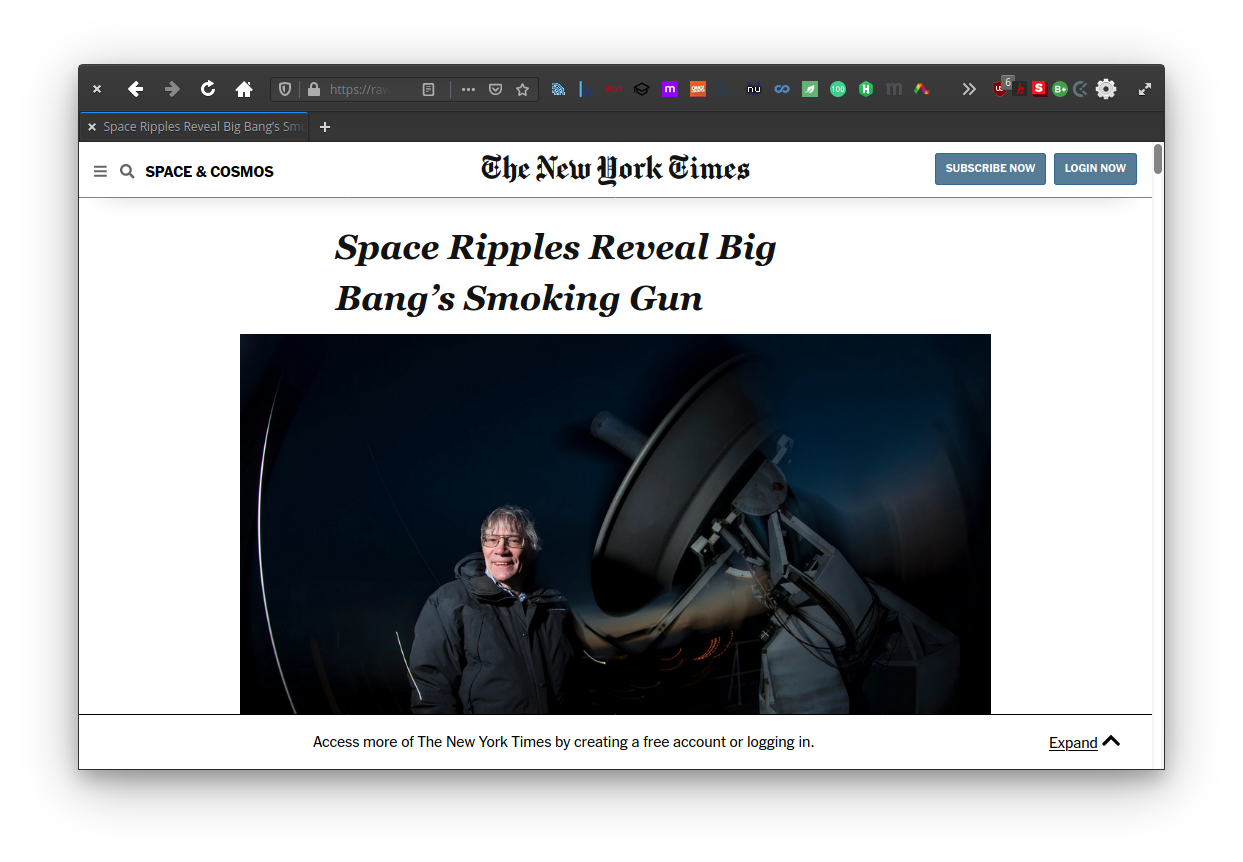
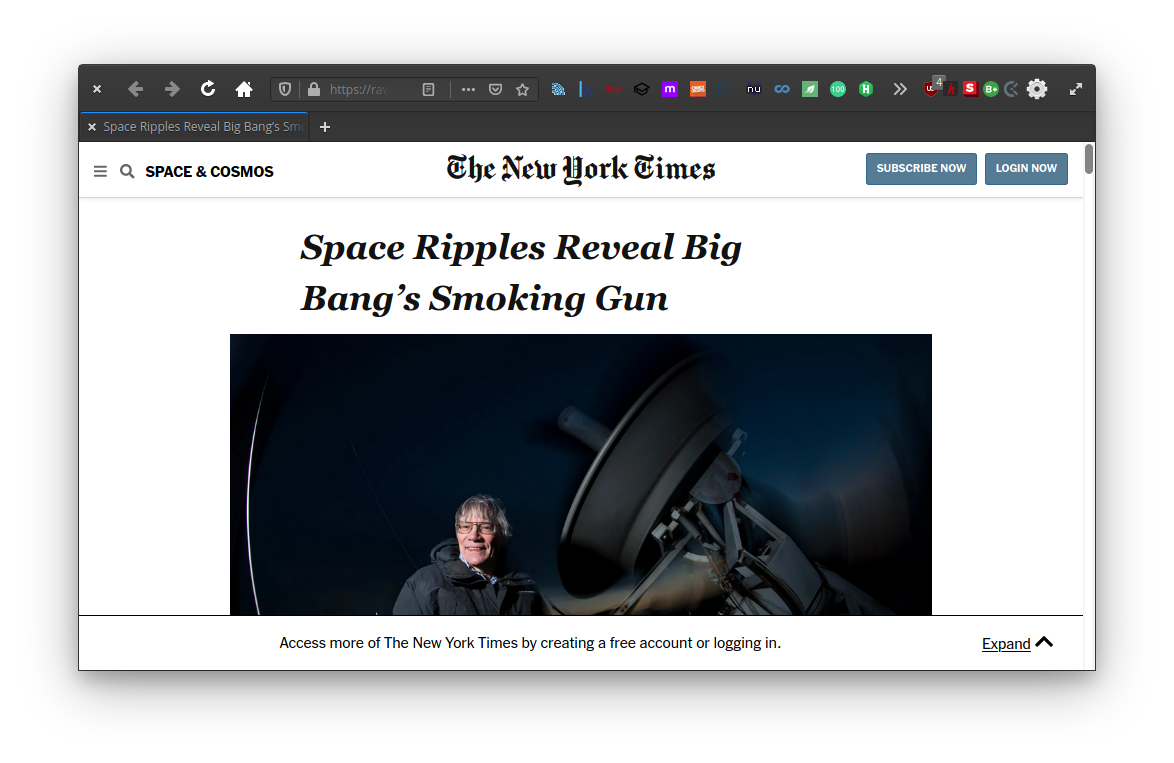
small changes to navbar

Changed region(s): [[0.0613, 0.0603, 0.9506, 0.9345]]

diff --git a/style.css b/style.css
@@ -127,8 +127,8 @@ nav {
   justify-content: space-between;
   align-items: center; */
   background-color: white;
-  box-shadow: 0 15px 25px -26px black;
-  border-bottom: 1px solid gray;
+  box-shadow: rgba(0,0,0,0.08) 0 0 5px 1px;
+  border-bottom: 1px solid lightgray;
   height: 56px;
   padding: 0 15px;
 }
